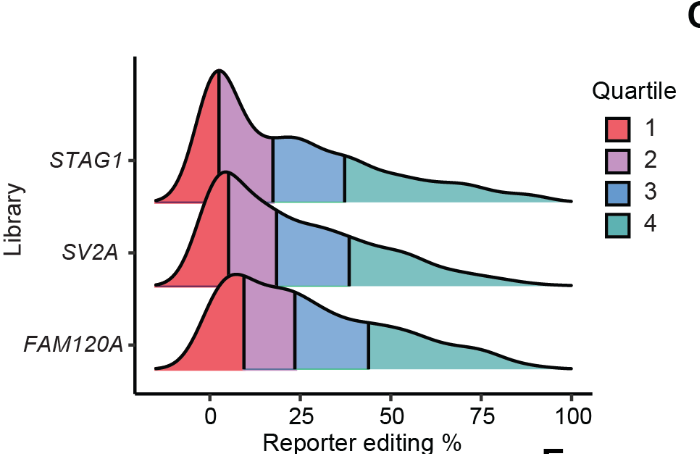
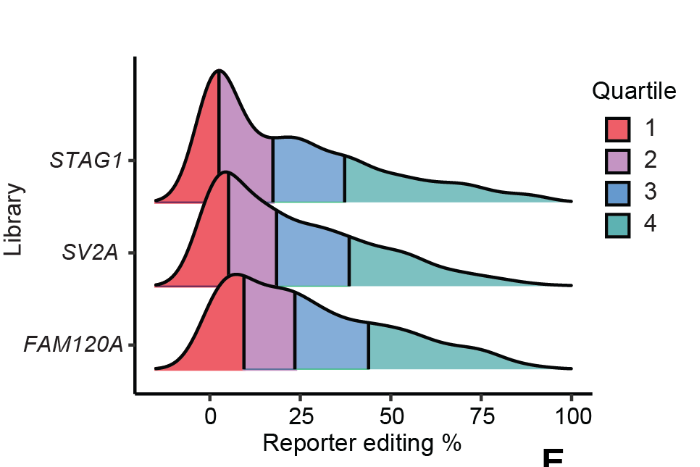
Use real published figures for all key plots; show all three loci above the FAM120A volcano example
- Swap the custom-generated allelic-effect volcano for the real published
  FAM120A volcano (manuscript Fig 5D) with its efficiency-scaling legend
- Fix cropped panel-letter artifact in the reporter editing density figure
- Replace FAM120A-only library composition table/plot with the real
  cross-locus figure (all three PE screens)
- Generalize sample naming and screen design text to cover all three loci;
  the FAM120A-specific worked example is now scoped to the pipeline walkthrough
- Add the FAM120A promoter locus view (Fig 3C, prioritized SNP highlighted)
  and its GTEx eQTL evidence (Fig 3D) to the results section

diff --git a/README.md b/README.md
@@ -14,24 +14,19 @@ Every targeting pegRNA (installing the ALT allele) is paired with a matched-cont
 
 ![Targeting vs matched control pegRNA design](docs/manuscript_figures/pegRNA_matched_control_schematic.png)
 
-This repository walks through the pipeline using the FAM120A locus screen as a worked example: 1,710 pegRNAs installing 1,143 unique variants (common SNPs prioritized from GWAS/FINEMAP fine-mapping and CRISPRi hits, small synthetic indels centered on those SNPs to increase detectable effect size, and 5 bp synthetic deletions at the FAM120A TSS as positive controls), each targeting pegRNA paired with a matched REF-allele control, plus 200 non-targeting control pegRNAs. This library composition is specific to the FAM120A screen; the SV2A and STAG1 screens used their own separately-designed pegRNA libraries, not included in this repo.
+This study ran three PE screens, one per WES-prioritized locus (FAM120A, SV2A, STAG1), each with its own independently-designed pegRNA library: common SNPs prioritized from GWAS/FINEMAP fine-mapping and CRISPRi hits (up to 4 pegRNAs per SNP), small synthetic indels centered on those SNPs to increase detectable effect size (up to 2 pegRNAs per indel), and 5 bp synthetic deletions at the target gene's TSS as positive controls, each targeting pegRNA paired with a matched REF-allele control, plus 100-200 non-targeting control pegRNAs per library. pegRNAs were designed with [PRIDICT2.0](https://github.com/uzh-dqbm-cmi/PRIDICT), favoring higher predicted editing efficiency:
 
-| Class | pegRNAs | Unique targets |
-|---|---|---|
-| `snv` (common SNP) | 592 | 148 |
-| `synthetic_indel` (5 bp deletion centered on a SNP) | 214 | 107 |
-| `common_insertion` | 8 | 2 |
-| `TSS_synthetic_indel` (5 bp TSS deletion, positive control) | 20 | 10 |
-| `matched_control` (REF-allele paired control) | 676 | 676 |
-| `non-targeting` | 200 | 200 |
+![pegRNA library composition across all three PE screens](docs/manuscript_figures/pegRNA_library_composition_manuscript.png)
 
-pegRNAs were designed with [PRIDICT2.0](https://github.com/uzh-dqbm-cmi/PRIDICT), and up to 4 pegRNAs were kept per common SNP and up to 2 per synthetic indel, favoring higher predicted editing efficiency. gBlocks encoding each pegRNA, its RT template and PBS, and its reporter were cloned into `pLenti-AN-U6-IN-PE2-SSB-puroR`, transduced into i3N-WTC11 iPSCs (with VPA and hMLH1dn co-treatment to boost editing efficiency), and screened by HCR-FlowFISH three weeks post-transduction, sorting into bottom-20%/top-20%-expression bins (normalized to TBP) across 4 replicates, plus a bulk unsorted sample per replicate:
+gBlocks encoding each pegRNA, its RT template and PBS, and its reporter were cloned into `pLenti-AN-U6-IN-PE2-SSB-puroR`, transduced into i3N-WTC11 iPSCs (with VPA and hMLH1dn co-treatment to boost editing efficiency), and screened by HCR-FlowFISH three weeks post-transduction, sorting into bottom-20%/top-20%-expression bins (normalized to TBP) across 4 replicates, plus a bulk unsorted sample per replicate. The STAG1 library showed the lowest reporter editing efficiency of the three, so cells were additionally sorted into 20-40%/60-80% bins for that screen to increase sensitivity.
 
 | Bin | Sample naming (this repo's convention) |
 |---|---|
-| Bottom 20% expression | `pegFAM120A_b20_r{1-4}` |
-| Top 20% expression | `pegFAM120A_t20_r{1-4}` |
-| Bulk (unsorted) | `pegFAM120A_bulk_r{1-4}` |
+| Bottom 20% expression | `peg<LOCUS>_b20_r{1-4}` |
+| Top 20% expression | `peg<LOCUS>_t20_r{1-4}` |
+| Bulk (unsorted) | `peg<LOCUS>_bulk_r{1-4}` |
+
+This repository walks through the pipeline scripts using the real FAM120A locus screen as a worked example (1,710 pegRNAs installing 1,143 unique variants); the same scripts apply unchanged to the SV2A and STAG1 screens, whose libraries aren't included in this repo.
 
 ## Tools and versions used
 
@@ -43,7 +38,7 @@ pegRNAs were designed with [PRIDICT2.0](https://github.com/uzh-dqbm-cmi/PRIDICT)
 ## Repository contents
 
 - `pegRNA_library/FAM120A_pegRNA_library.csv` — the real FAM120A pegRNA library reference (name, target variant, class, locus, spacer sequence) used as a worked example throughout this README.
-- `scripts/01_generate_count_table.R` through `scripts/04_analyze_bean_results.R` — the full count-table/scaling/BEAN/results pipeline, walked through below. The underlying per-read mapping files, count tables, and BEAN output are not included in this repo; only the library reference and rendered example plots (generated from the real FAM120A screen data) are.
+- `scripts/01_generate_count_table.R` through `scripts/04_analyze_bean_results.R` — the full count-table/scaling/BEAN/results pipeline, walked through below. The underlying per-read mapping files, count tables, and BEAN output are not included in this repo; only the library reference is.
 - `scripts/plot_library_composition.py` — plots pegRNA/target counts per library class directly from a pegRNA library CSV.
 - `scripts/plot_reporter_editing_density.R` — plots the distribution of per-pegRNA reporter editing rates.
 
@@ -56,10 +51,6 @@ Rscript 01_generate_count_table.R pegFAM120A 4 <mapped_reads_dir> <reporter_edit
 ```
 
 Reads are assigned to a single best-matching pegRNA `oligo_id` by perfect-match alignment to the library reference (pegRNA spacer + reporter + barcode). For each replicate, per-oligo read counts in the b20/t20/bulk bins are joined and filtered on `bulk >= 10` reads, the same library-dropout filter used in the CRISPRi pipeline: a pegRNA missing from the bulk sample dropped out of the library for a reason unrelated to sorting (poor cloning/PCR representation, a growth defect), and shouldn't be mistaken for a genuine sorting-driven effect. Reporter editing rate per oligo (`percent_editing`, from sequencing the self-reporter) is averaged across bulk replicates; non-targeting control pegRNAs install no edit, so their reporter is always the reference sequence and they're treated as 100% "editing."
-
-The plot below counts pegRNAs and unique targets per library class directly from the real FAM120A library CSV in this repo:
-
-![FAM120A library composition](docs/example_plots/FAM120A_library_composition.png)
 
 ### 2. Predict endogenous editing and scale counts for BEAN
 
@@ -101,16 +92,18 @@ allelic_mu      = mu_targeting - mu_matched
 allelic_z_score = (mu_targeting - mu_matched) / sqrt(mu_sd_targeting^2 + mu_sd_matched^2)
 ```
 
-Variants are called significant at `|allelic_z_score| >= 1.98`. Running this on the real FAM120A BEAN output: 264 variants had a matched control pair available for this comparison, and 8 were called significant (2 5-bp TSS deletions, 2 5-bp synthetic deletions, 3 SNPs, and 1 other variant):
-
-![FAM120A allelic effect size volcano](docs/example_plots/FAM120A_bean_allelic_volcano.png)
-
-## What the results show
-
-The shape of this real allelic-effect-size plot matches the published result for this screen: the strongest hit is a 5 bp TSS deletion (as expected — direct disruption of the TSS should have the largest effect on expression of any variant class), and several common SNPs and synthetic deletions clear the significance threshold on both sides (increasing and decreasing FAM120A expression).
+Variants are called significant at `|allelic_z_score| >= 1.98`. Running this on the real FAM120A BEAN output: 264 variants had a matched control pair available for this comparison, and 8 were called significant (2 5-bp TSS deletions, 2 5-bp synthetic deletions, 3 SNPs, and 1 other variant) — matching the published result for this screen (dot size below is each variant's editing/scaling efficiency from Step 2; the strongest hit is a 5 bp TSS deletion, as expected since direct disruption of the TSS should have the largest effect on expression of any variant class):
 
 ![FAM120A pegRNA screen volcano, published](docs/manuscript_figures/FAM120A_pegRNA_volcano_manuscript.png)
 
-One of these hits, the FINEMAP SNP rs7853605:A>G in the FAM120A promoter, significantly increased FAM120A expression in this screen, consistent with the direction of its effect as a GTEx eQTL in esophagus - mucosa. Another hit, rs117810130:C>T, was validated in individual edited clones by RT-qPCR, trending toward decreased FAM120A expression in line with the pooled screen. The locus view below shows every variant assayed in this screen relative to the FAM120A gene body and the underlying SCZ GWAS signal:
+## What the results show
 
-![FAM120A locus, assayed variants](docs/manuscript_figures/FAM120A_locus_variants_manuscript.png)
+One of these hits, the FINEMAP SNP rs7853605:A>G, sits directly in the FAM120A promoter (highlighted below) and significantly increased FAM120A expression in this screen:
+
+![FAM120A promoter locus, rs7853605 highlighted](docs/manuscript_figures/FAM120A_promoter_locus_manuscript.png)
+
+This is consistent with the direction of its effect as a GTEx eQTL for FAM120A in esophagus - mucosa (p = 6e-7):
+
+![FAM120A promoter SNPs, GTEx eQTL evidence](docs/manuscript_figures/FAM120A_promoter_GTEx_eQTL_manuscript.png)
+
+Another hit, rs117810130:C>T, was validated in individual edited clones by RT-qPCR, trending toward decreased FAM120A expression in line with the pooled screen.
